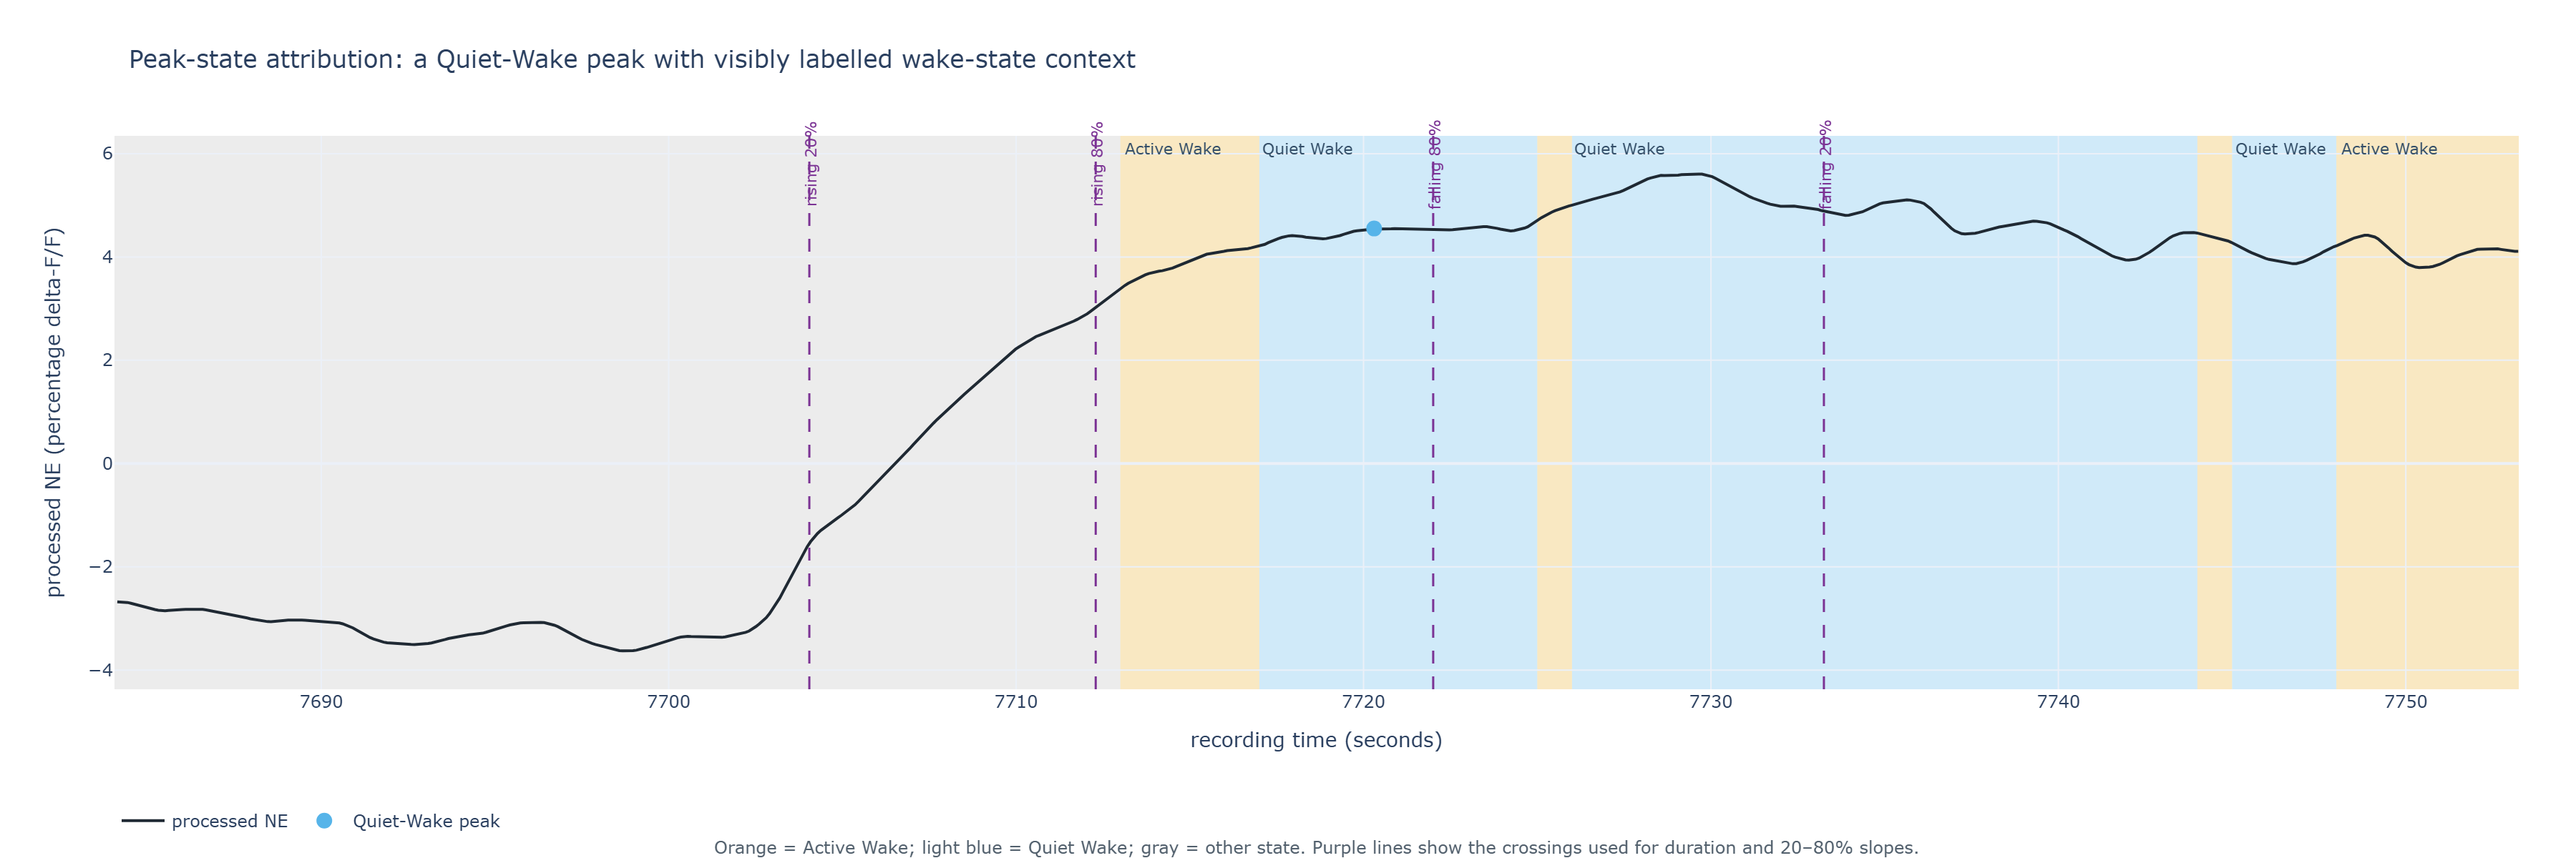
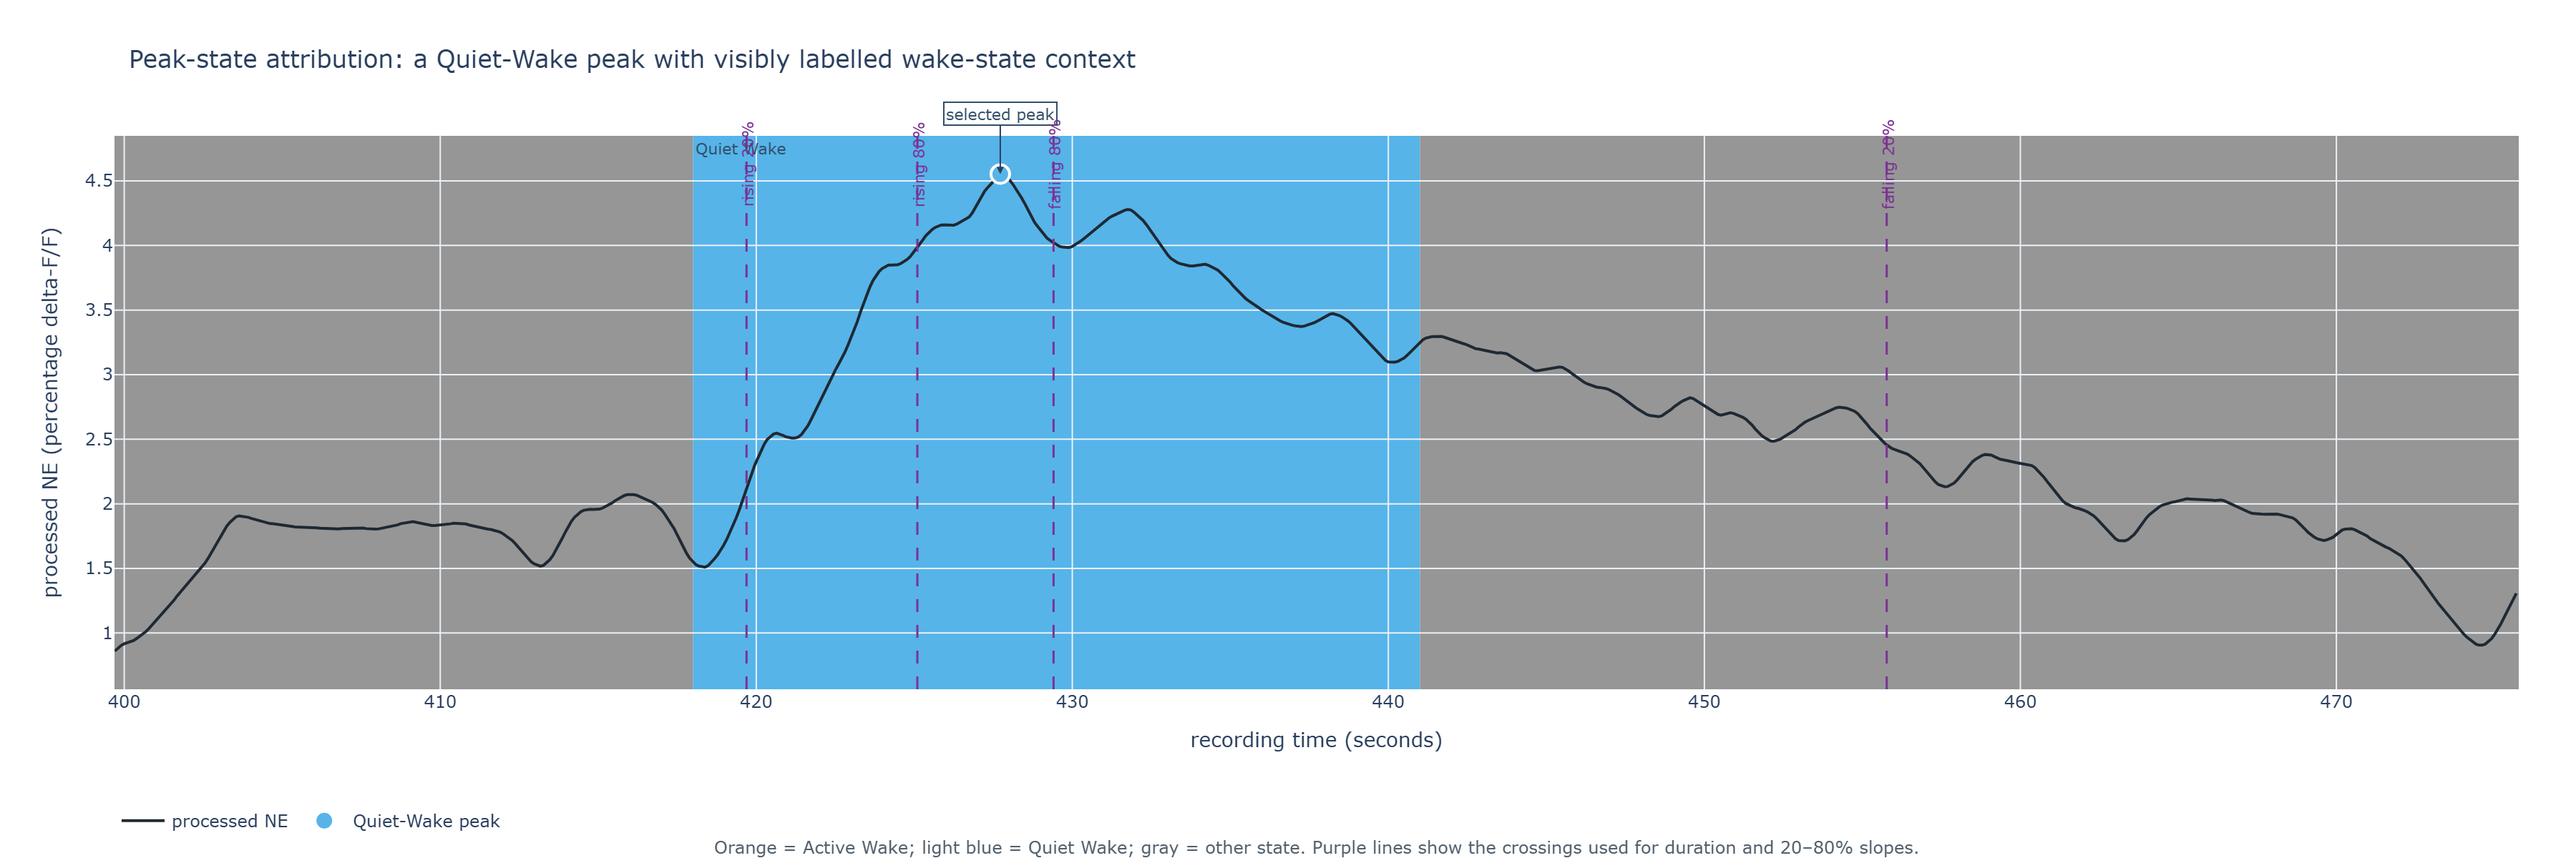
Correct peak-state report figure
- Select and label an unambiguous Quiet-Wake peak example\n- Render report state colors with the scoring workflow palette

diff --git a/scripts/render_cohort_preliminary_report_figures.py b/scripts/render_cohort_preliminary_report_figures.py
@@ -17,14 +17,11 @@ from wake_ne_analysis.io import load_recording
 STATE_NAMES = {"active_wake": "Active Wake", "quiet_wake": "Quiet Wake"}
 # Keep the state colors aligned with the upstream sleep_scoring application.
 STATE_COLORS = {"active_wake": "#E69F00", "quiet_wake": "#56B4E9"}
-STATE_FILL_COLORS = {
-    "active_wake": "rgba(230,159,0,0.24)",
-    "quiet_wake": "rgba(86,180,233,0.28)",
-    "other": "rgba(150,150,150,0.18)",
-}
+# The scoring app renders stage colors at full opacity; use the same appearance here.
+STATE_FILL_COLORS = {**STATE_COLORS, "other": "#969696"}
 PEAK_EXAMPLE_SEED = 20260916
-MIN_EXAMPLE_QUIET_SECONDS = 10
-MIN_EXAMPLE_ACTIVE_SECONDS = 5
+MIN_EXAMPLE_QUIET_SECONDS = 20
+MAX_EXAMPLE_CONTEXT_PEAK_EXCESS = 0.05
 METRICS = [
     ("amplitude_median", "Episode amplitude", "percentage points"),
     ("duration_seconds_median", "Episode duration", "seconds"),
@@ -144,7 +141,7 @@ def coverage_figure(coverage: pd.DataFrame):
     order = ["mouse1", "mouse3", "mouse5", "mouse7", "unverified_35"]
     figure = make_subplots(rows=1, cols=2, subplot_titles=("Active Wake", "Quiet Wake"))
     for column, state in enumerate(("active_wake", "quiet_wake"), start=1):
-        for seconds, opacity, pattern in ((15, 1.0, ""), (20, 0.65, "/")):
+        for seconds, opacity, pattern in ((15, 1.0, ""), (20, 1.0, "/")):
             data = coverage.loc[(coverage.state == state) & (coverage.window_seconds == seconds)]
             values = data.set_index("mouse_id").reindex(order).n_windows.fillna(0)
             figure.add_trace(
@@ -198,7 +195,7 @@ def _seconds_in_state(recording, left: float, right: float, state_label: int) ->
 
 
 def choose_peak_example(events: pd.DataFrame, recording, recording_id: str, seed: int):
-    """Pick a seeded Quiet-Wake peak example that visibly includes both wake states."""
+    """Pick a seeded Quiet-Wake example whose marked point is visibly the local maximum."""
     candidates = events.loc[
         (events.recording_id == recording_id)
         & (events.state == "quiet_wake")
@@ -215,18 +212,23 @@ def choose_peak_example(events: pd.DataFrame, recording, recording_id: str, seed
         _seconds_in_state(recording, left, right, 5)
         for left, right in zip(candidates.display_left, candidates.display_right)
     ]
-    candidates["active_seconds_shown"] = [
-        _seconds_in_state(recording, left, right, 4)
-        for left, right in zip(candidates.display_left, candidates.display_right)
+    time = recording.start_time + np.arange(recording.ne.size) / recording.fs
+    candidates["peak_value_shown"] = [np.interp(value, time, recording.ne) for value in candidates.peak_seconds]
+    candidates["context_peak_excess"] = [
+        float(recording.ne[(time >= left) & (time <= right)].max() - peak_value)
+        for left, right, peak_value in zip(
+            candidates.display_left, candidates.display_right, candidates.peak_value_shown
+        )
     ]
     candidates = candidates.loc[
         (candidates.quiet_seconds_shown >= MIN_EXAMPLE_QUIET_SECONDS)
-        & (candidates.active_seconds_shown >= MIN_EXAMPLE_ACTIVE_SECONDS)
+        & (candidates.context_peak_excess <= MAX_EXAMPLE_CONTEXT_PEAK_EXCESS)
     ].sort_values(["peak_seconds", "onset20_seconds"], kind="stable")
     if candidates.empty:
         raise ValueError(
-            "No peak-state example shows the required Quiet- and Active-Wake context "
-            f"({MIN_EXAMPLE_QUIET_SECONDS} s Quiet; {MIN_EXAMPLE_ACTIVE_SECONDS} s Active)."
+            "No peak-state example has the required visible Quiet-Wake context and "
+            f"clear marked maximum ({MIN_EXAMPLE_QUIET_SECONDS} s Quiet; "
+            f"no more than {MAX_EXAMPLE_CONTEXT_PEAK_EXCESS} percentage points below context maximum)."
         )
     return candidates.iloc[np.random.default_rng(seed).integers(len(candidates))]
 
@@ -268,8 +270,20 @@ def peak_assignment_figure(events: pd.DataFrame, mat_path: Path, mouse_id: str, 
             y=[recording.ne[np.argmin(np.abs(time - chosen.peak_seconds))]],
             mode="markers",
             name="Quiet-Wake peak",
-            marker={"color": STATE_COLORS["quiet_wake"], "size": 11},
+            marker={"color": STATE_COLORS["quiet_wake"], "size": 13, "line": {"color": "white", "width": 2}},
         )
+    )
+    figure.add_annotation(
+        x=chosen.peak_seconds,
+        y=chosen.peak_value_shown,
+        text="selected peak",
+        showarrow=True,
+        arrowhead=2,
+        ax=0,
+        ay=-42,
+        bgcolor="rgba(255,255,255,0.92)",
+        bordercolor="#334e68",
+        font={"size": 11, "color": "#334e68"},
     )
     for value, label in (
         (chosen.onset20_seconds, "rising 20%"),

diff --git a/tests/test_pipeline.py b/tests/test_pipeline.py
@@ -246,9 +246,14 @@ def test_filter_retention_matches_forward_backward_boxcar():
     assert smoothing_power_retention(0.1, 10) == pytest.approx(0.9361, abs=0.001)
 
 
-def test_peak_example_selection_is_seeded_and_shows_both_wake_states():
+def test_peak_example_selection_is_seeded_and_marks_a_clear_quiet_wake_peak():
     renderer = _report_renderer_module()
-    source = SimpleNamespace(labels=np.array([4] * 10 + [5] * 70), start_time=0.0)
+    source = SimpleNamespace(
+        labels=np.array([4] * 10 + [5] * 70),
+        start_time=0.0,
+        fs=1.0,
+        ne=np.array([0.0] * 30 + [5.0] + [0.0] * 4 + [4.0] + [0.0] * 44),
+    )
     events = pd.DataFrame(
         [
             {
@@ -277,7 +282,7 @@ def test_peak_example_selection_is_seeded_and_shows_both_wake_states():
     second = renderer.choose_peak_example(events, source, "example", seed=20260916)
     assert first.peak_seconds == second.peak_seconds
     assert first.quiet_seconds_shown >= renderer.MIN_EXAMPLE_QUIET_SECONDS
-    assert first.active_seconds_shown >= renderer.MIN_EXAMPLE_ACTIVE_SECONDS
+    assert first.context_peak_excess <= renderer.MAX_EXAMPLE_CONTEXT_PEAK_EXCESS
 
 
 def test_manifest_and_both_clis_roundtrip(tmp_path):

diff --git a/treaty_docs/work_log.md b/treaty_docs/work_log.md
@@ -11,9 +11,11 @@
   defines the 20%/80% slope crossings.
 - Aligned report figures with the upstream `sleep_scoring` colors: Active Wake is
   orange (`#E69F00`) and Quiet Wake is light blue (`#56B4E9`). The peak-state plot
-  now uses a deterministically seeded, eligible Quiet-Wake peak example that visibly
-  includes and labels both wake states. The renderer records seed `20260916`, its
-  minimum displayed-state context, and has a synthetic determinism test.
+  now uses those opaque stage colors and a deterministically seeded, eligible
+  Quiet-Wake peak example. It requires at least 20 displayed Quiet-Wake seconds and
+  rejects a candidate if a higher NE value would make its marked point visually
+  misleading. The renderer records seed `20260916`, its eligibility criteria, and
+  has a synthetic determinism test.
 - Moved the spectral feasibility rationale into the methodology, kept a concise
   spectral result subsection, and added appendix equations plus the forward/backward
   moving-average retained-power table. It distinguishes smoothing attenuation from

diff --git a/docs/preliminary_report.md b/docs/preliminary_report.md
@@ -331,5 +331,7 @@ python scripts/render_cohort_preliminary_report_figures.py `
 
 The output directory must be new or empty when rendering, which prevents silently
 mixing figures from different analysis runs. The seed chooses deterministically among
-complete, non-start-QC-excluded Quiet-Wake peak events that display at least 10 seconds
-of Quiet Wake and 5 seconds of Active Wake in the plotted context.
+complete, non-start-QC-excluded Quiet-Wake peak events that display at least 20 seconds
+of Quiet Wake and whose selected point is no more than 0.05 percentage points below
+the largest NE value in the plotted context. This makes the labelled point a clear,
+visually defensible local peak.
